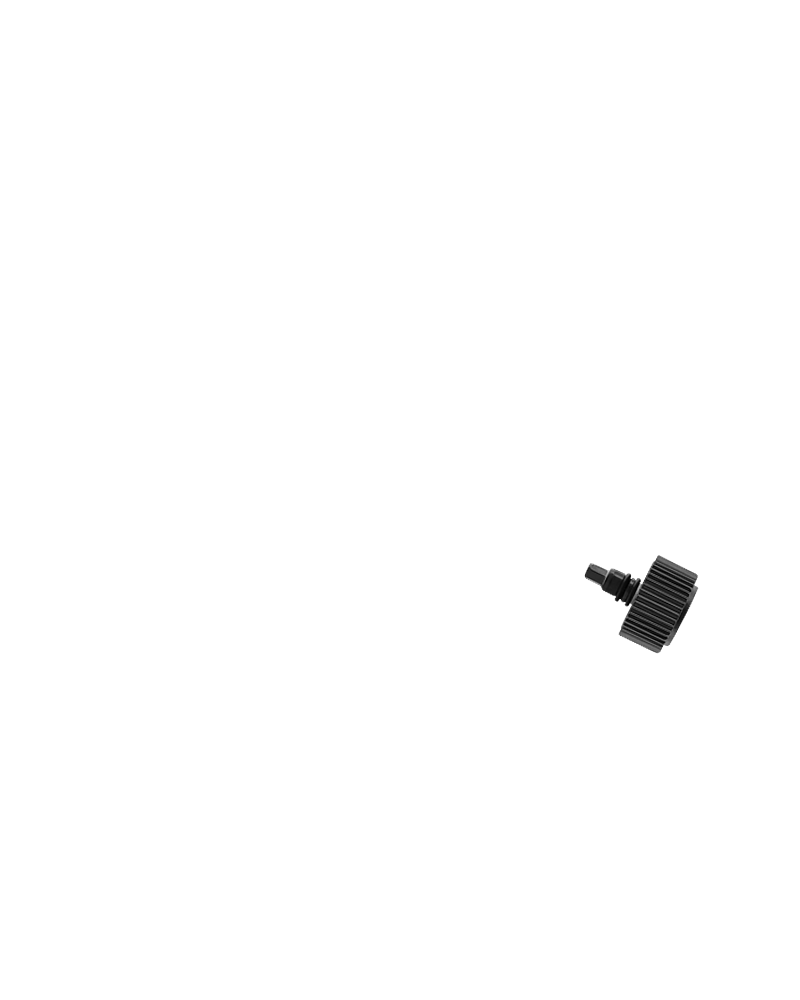
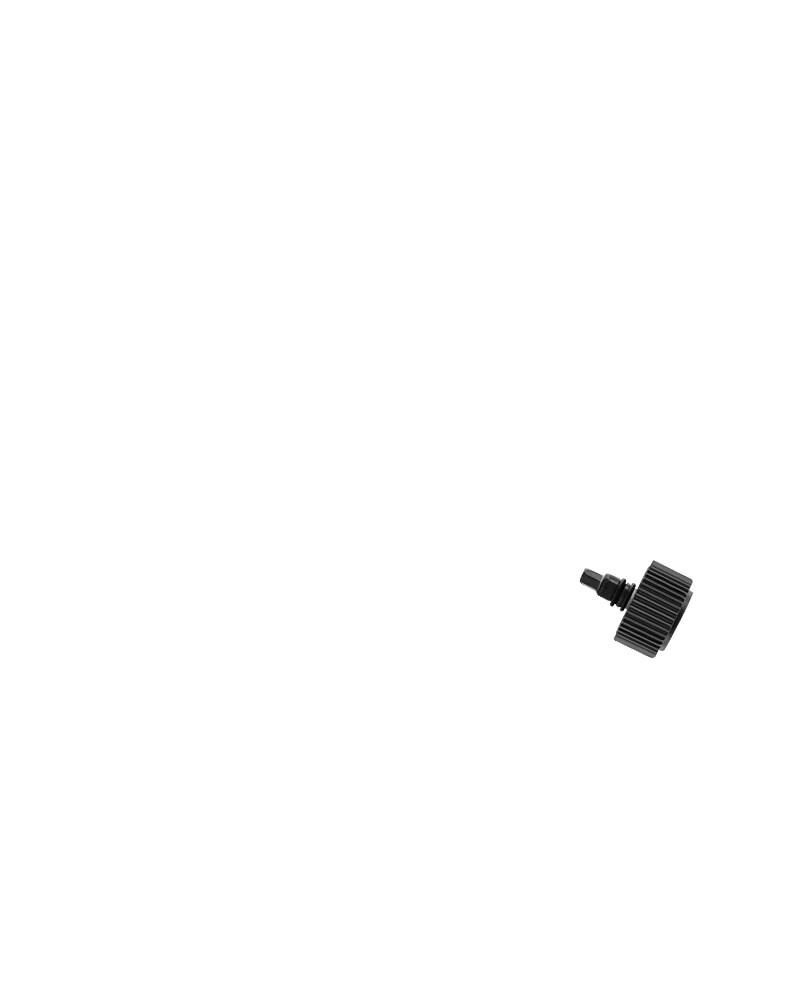
Nudge the 3.8 crowns slightly down-left (NUDGE_X -5 / NUDGE_Y +5)
Radial placement was right, but on screen the crown still read a touch too
far up-right. Added a small hand nudge applied after the radial placement:
NUDGE_X = -5, NUDGE_Y = +5 on the 800x1000 canvas, i.e. 7px total towards
lower-left - about 1.3% of the case diameter.

It also drops the crown's angular centroid from 23.4 deg to 24.6 deg, so the
crown sits a little lower in the 3.8 notch.

Both values are exposed as --nudge-x / --nudge-y so this can be re-tuned
without touching the geometry code.

Changed region(s): [[0.7188, 0.558, 0.875, 0.651]]

diff --git a/tools/reposition_crown.py b/tools/reposition_crown.py
@@ -40,6 +40,11 @@ THUMB_DIR = os.path.join(OUT_DIR, 'thumb')
 # ---- placement parameters ---------------------------------------------------
 CASE = os.path.join(HERE, 'img/cases/skx38/SKX-B-1.png')
 PROTRUDE = 38          # px the crown head sticks out past the case edge (~0.13 R)
+# Final hand nudge on the 800x1000 canvas, applied AFTER the radial placement.
+# Negative X = left, positive Y = down. Requested by the user after eyeballing the
+# render: the crown read a touch too far up-right, so shift it slightly down-left.
+NUDGE_X = -5
+NUDGE_Y = +5
 # Calibrated against the factory reference photo: its crown head is centred at t=0.843
 # (a fraction of the case outer radius) with the head spanning t 0.554..1.131.
 # 38 reproduces that as 0.844 / 0.564..1.124. 44 put the head at 0.920 - i.e. the head
@@ -145,8 +150,8 @@ def transform(path, C, prof, phi_hole):
     r_edge = prof[int(math.floor(phi_hole + 180)) % 360]
     ph = math.radians(phi_hole)
     ux, uy = math.cos(ph), math.sin(ph)
-    tgt = (C[0] + (r_edge + PROTRUDE - L) * ux,
-           C[1] + (r_edge + PROTRUDE - L) * uy)
+    tgt = (C[0] + (r_edge + PROTRUDE - L) * ux + NUDGE_X,
+           C[1] + (r_edge + PROTRUDE - L) * uy + NUDGE_Y)
     dx, dy = round(tgt[0] - tip[0]), round(tgt[1] - tip[1])
     canvas = Image.new('RGBA', img.size, (0, 0, 0, 0))
     canvas.paste(rotated, (dx, dy), rotated)
@@ -155,12 +160,16 @@ def transform(path, C, prof, phi_hole):
 
 
 def main():
-    global PROTRUDE
+    global PROTRUDE, NUDGE_X, NUDGE_Y
+    NUDGE_X, NUDGE_Y = -5, 5
     ap = argparse.ArgumentParser()
     ap.add_argument('--dry', action='store_true', help='only report, do not write')
     ap.add_argument('--protrude', type=float, default=PROTRUDE)
+    ap.add_argument('--nudge-x', type=float, default=NUDGE_X)
+    ap.add_argument('--nudge-y', type=float, default=NUDGE_Y)
     args = ap.parse_args()
     PROTRUDE = args.protrude
+    NUDGE_X, NUDGE_Y = args.nudge_x, args.nudge_y
 
     C, R, prof, phi_hole, hole_xy, npx = case_geometry(CASE)
     r_edge = prof[int(math.floor(phi_hole + 180)) % 360]
